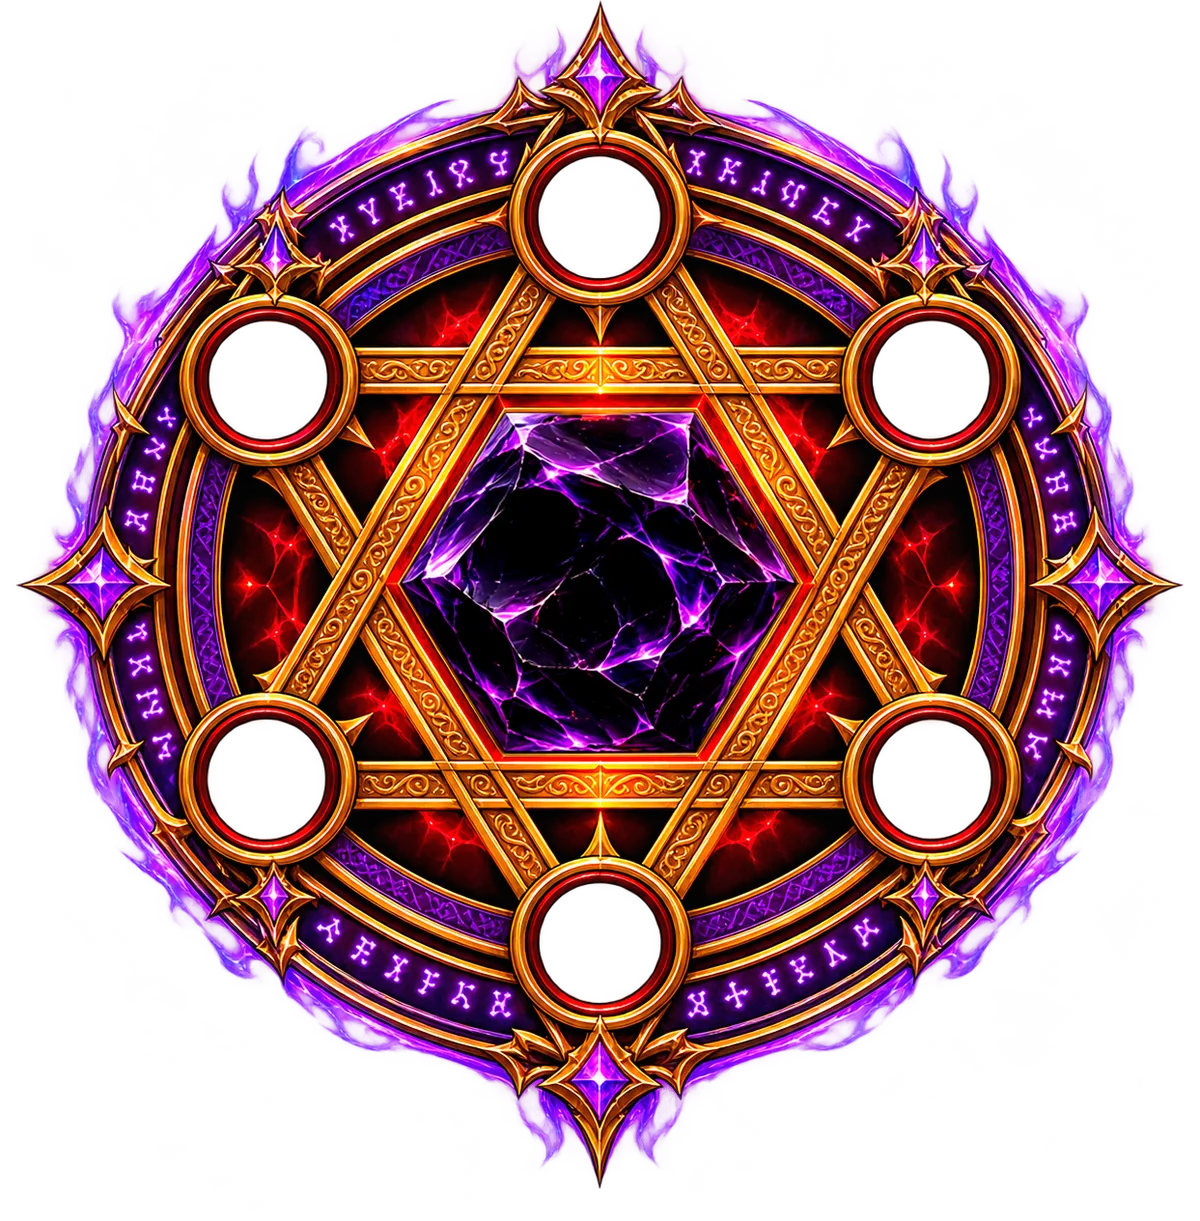
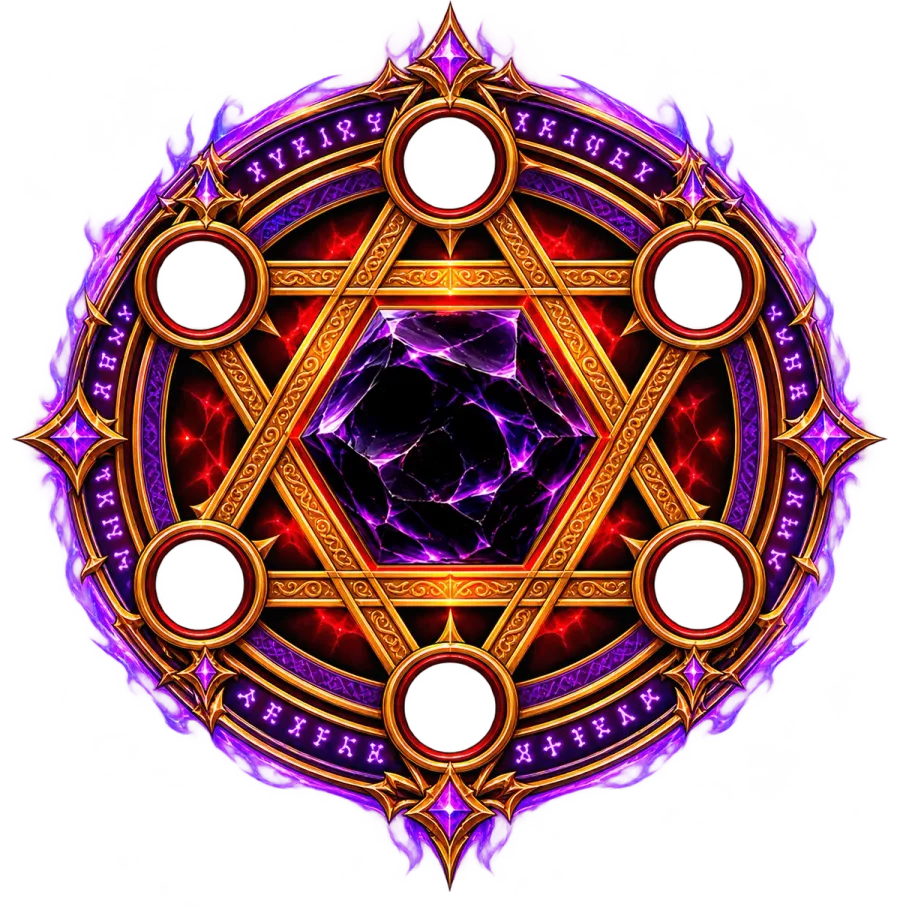
Imagens fixas do imgur viram WebP empacotado pelo Vite
Selos Salvar/Excluir, imagens padrao do card, fundos de Login/Lista/Ficha
e imagens do Cultivo passam de URL do imgur (PNG/JPEG de ate 1,7 MB) para
WebP no tamanho de uso, junto da pagina. estrela-atributos.webp encolhe de
463 KB para 264 KB (900 px).

diff --git a/src/pages/Personagens/Ficha/sidebar/CultivoModal.jsx b/src/pages/Personagens/Ficha/sidebar/CultivoModal.jsx
@@ -43,6 +43,9 @@ import {
 } from 'common/utils/formulas';
 import { getNome } from 'common/utils/resolveNome';
 import { PAPER_TELA_CHEIA } from 'common/styles/breakpoints';
+import cultivoModalImg from 'pages/Personagens/Ficha/assets/cultivo-modal.webp';
+import cultivoFundoImg from 'pages/Personagens/Ficha/assets/cultivo-fundo.webp';
+import cultivoReinoImg from 'pages/Personagens/Ficha/assets/cultivo-reino.webp';
 import { useSaving } from 'context/SavingContext';
 import { PRIMARIOS_LABELS, SECUNDARIOS_LABELS, STATUS_LABELS } from '../constants';
 
@@ -887,7 +890,7 @@ const CultivoModal = ({ open, onClose, personagem, onSave }) => {
           width: 'min(100%, 920px)',
           maxHeight: 'min(100vh, 94vh)',
           borderRadius: '22px',
-          backgroundImage: "linear-gradient(rgba(10, 9, 19, 0.88), rgba(10, 9, 19, 0.88)), url('https://i.imgur.com/6ewUzUs.jpeg')",
+          backgroundImage: `linear-gradient(rgba(10, 9, 19, 0.88), rgba(10, 9, 19, 0.88)), url(${cultivoModalImg})`,
           backgroundSize: 'cover',
           backgroundPosition: 'center',
           backgroundRepeat: 'no-repeat',
@@ -1005,7 +1008,7 @@ const CultivoModal = ({ open, onClose, personagem, onSave }) => {
                       ),
                     )}
                   </EstrelasRow>
-                  <ReinoBanner src="https://i.imgur.com/ZD2QY5R.png" alt="Reino do Cultivo" />
+                  <ReinoBanner src={cultivoReinoImg} alt="Reino do Cultivo" />
                 </div>
 
                 <div>
@@ -1228,7 +1231,7 @@ const CultivoModal = ({ open, onClose, personagem, onSave }) => {
           <div
             style={{
               backgroundImage:
-                "linear-gradient(180deg, rgba(8, 10, 18, 0.7), rgba(12, 8, 18, 0.88)), url('https://i.imgur.com/fr1bk5b.png')",
+                `linear-gradient(180deg, rgba(8, 10, 18, 0.7), rgba(12, 8, 18, 0.88)), url(${cultivoFundoImg})`,
               backgroundSize: 'cover',
               backgroundPosition: 'center center',
               backgroundRepeat: 'no-repeat',

diff --git a/src/pages/Personagens/Ficha/PersonagemHeroCard.jsx b/src/pages/Personagens/Ficha/PersonagemHeroCard.jsx
@@ -20,8 +20,8 @@ import {
   planetaRedungeonImg,
 } from './styles';
 
-const SALVAR_BADGE_URL = 'https://i.imgur.com/WDQEQb8.png';
-const EXCLUIR_BADGE_URL = 'https://i.imgur.com/9JyaulF.png';
+import salvarBadgeImg from './assets/badge-salvar.webp';
+import excluirBadgeImg from './assets/badge-excluir.webp';
 
 const PersonagemHeroCard = ({
   personagem,
@@ -69,13 +69,13 @@ const PersonagemHeroCard = ({
       <HeroAcoesRow>
         <Tooltip title="Salvar personagem" arrow placement="top">
           <HeroAcaoBadge type="submit" aria-label="Salvar personagem" disabled={salvando}>
-            <img src={SALVAR_BADGE_URL} alt="" />
+            <img src={salvarBadgeImg} alt="" />
           </HeroAcaoBadge>
         </Tooltip>
 
         <Tooltip title="Remover personagem" arrow placement="top">
           <HeroAcaoBadge type="button" aria-label="Remover personagem" onClick={onExcluir}>
-            <img src={EXCLUIR_BADGE_URL} alt="" />
+            <img src={excluirBadgeImg} alt="" />
           </HeroAcaoBadge>
         </Tooltip>
       </HeroAcoesRow>

diff --git a/src/pages/Personagens/Ficha/styles.js b/src/pages/Personagens/Ficha/styles.js
@@ -3,11 +3,12 @@ import styled, { keyframes } from 'styled-components';
 import { MOBILE } from 'common/styles/breakpoints';
 
 // Imagens da ficha em WebP, já no tamanho de uso (~2x o exibido); antes eram
-// PNGs de 1 a 2 MB no imgur.
+// PNGs de 1 a 2 MB no imgur. O fundo e os selos Salvar/Excluir também são WebP.
 import planetaRedungeonImg from './assets/planeta-redungeon.webp';
 import molduraRetratoImg from './assets/moldura-retrato.webp';
 import estrelaAtributosPrincipalImg from './assets/estrela-atributos.webp';
 import gemaAtributoImg from './assets/gema-atributo.webp';
+import fundoFichaImg from './assets/fundo-ficha.webp';
 
 export const FichaWrapper = styled.div`
   flex: 1;
@@ -45,7 +46,7 @@ export const FichaMain = styled.div`
   background-color: #090b14;
   background-image:
     linear-gradient(rgba(7, 5, 14, 0.78), rgba(7, 5, 14, 0.86)),
-    url('https://i.imgur.com/EkhmWLL.jpeg');
+    url(${fundoFichaImg});
   background-position: center center;
   background-size: cover;
   background-repeat: no-repeat;

diff --git a/src/pages/Personagens/Ficha/cultivo/styles.js b/src/pages/Personagens/Ficha/cultivo/styles.js
@@ -1,4 +1,5 @@
 import styled from 'styled-components';
+import cultivoCardImg from 'pages/Personagens/Ficha/assets/cultivo-card.webp';
 
 // Layout de duas colunas: painel principal (Reino atual + progresso) e a trilha
 // "Caminho do Cultivo" à direita. Empilha em telas estreitas.
@@ -55,7 +56,7 @@ export const ReinoBanner = styled.img`
 `;
 
 export const CultivoCard = styled.div`
-  background-image: linear-gradient(rgba(16, 12, 24, 0.88), rgba(16, 12, 24, 0.88)), url('https://i.imgur.com/mb3T1zB.png');
+  background-image: linear-gradient(rgba(16, 12, 24, 0.88), rgba(16, 12, 24, 0.88)), url(${cultivoCardImg});
   background-size: cover;
   background-position: center;
   background-repeat: no-repeat;

diff --git a/src/pages/Login/styles.js b/src/pages/Login/styles.js
@@ -2,6 +2,9 @@ import styled from 'styled-components';
 
 import { MOBILE } from 'common/styles/breakpoints';
 
+// Fundo em WebP empacotado pelo Vite (antes: JPEG de 1 MB no imgur).
+import fundoLoginImg from './assets/fundo-login.webp';
+
 export const LoginWrapper = styled.div`
   position: relative;
   flex: 1;
@@ -13,7 +16,7 @@ export const LoginWrapper = styled.div`
   background-color: #050d19;
   background-image:
     linear-gradient(180deg, rgba(5, 12, 26, 0.58) 0%, rgba(3, 8, 18, 0.7) 100%),
-    url('https://i.imgur.com/v1EdhCV.jpeg');
+    url(${fundoLoginImg});
   background-position: center center;
   background-size: cover;
   background-repeat: no-repeat;

diff --git a/src/pages/Personagens/Ficha/PersonagemHeroCard.test.jsx b/src/pages/Personagens/Ficha/PersonagemHeroCard.test.jsx
@@ -19,7 +19,7 @@ describe('PersonagemHeroCard', () => {
     const removerBtn = screen.getByRole('button', { name: /remover personagem/i });
 
     expect(salvarBtn).toHaveAttribute('type', 'submit');
-    expect(salvarBtn.querySelector('img')).toHaveAttribute('src', 'https://i.imgur.com/WDQEQb8.png');
-    expect(removerBtn.querySelector('img')).toHaveAttribute('src', 'https://i.imgur.com/9JyaulF.png');
+    expect(salvarBtn.querySelector('img')).toHaveAttribute('src', expect.stringContaining('badge-salvar'));
+    expect(removerBtn.querySelector('img')).toHaveAttribute('src', expect.stringContaining('badge-excluir'));
   });
 });

diff --git a/src/pages/Personagens/styles.js b/src/pages/Personagens/styles.js
@@ -2,13 +2,16 @@ import styled from 'styled-components';
 
 import { MOBILE } from 'common/styles/breakpoints';
 
+// Fundo em WebP empacotado pelo Vite (antes: PNG no imgur).
+import fundoPersonagensImg from './assets/fundo-personagens.webp';
+
 export const PageWrapper = styled.div`
   flex: 1;
   padding: 32px;
   display: flex;
   flex-direction: column;
   gap: 24px;
-  background-image: url('https://i.imgur.com/REkKA1N.png');
+  background-image: url(${fundoPersonagensImg});
   background-size: cover;
   background-position: center;
   background-repeat: no-repeat;

diff --git a/src/pages/Personagens/PersonagemCardItem.jsx b/src/pages/Personagens/PersonagemCardItem.jsx
@@ -15,11 +15,10 @@ import {
   PersonagemMedia,
   PersonagemMediaOverlay,
 } from './styles';
+import personagemPadrao1Img from './assets/personagem-padrao-1.webp';
+import personagemPadrao2Img from './assets/personagem-padrao-2.webp';
 
-const FALLBACK_IMAGES = [
-  'https://i.imgur.com/NSDQWT3.png',
-  'https://i.imgur.com/G088HoT.png'
-];
+const FALLBACK_IMAGES = [personagemPadrao1Img, personagemPadrao2Img];
 
 const PersonagemCardItem = ({ personagem, onClick, isSelected = false }) => {
   const [racaNome, setRacaNome] = useState('');
